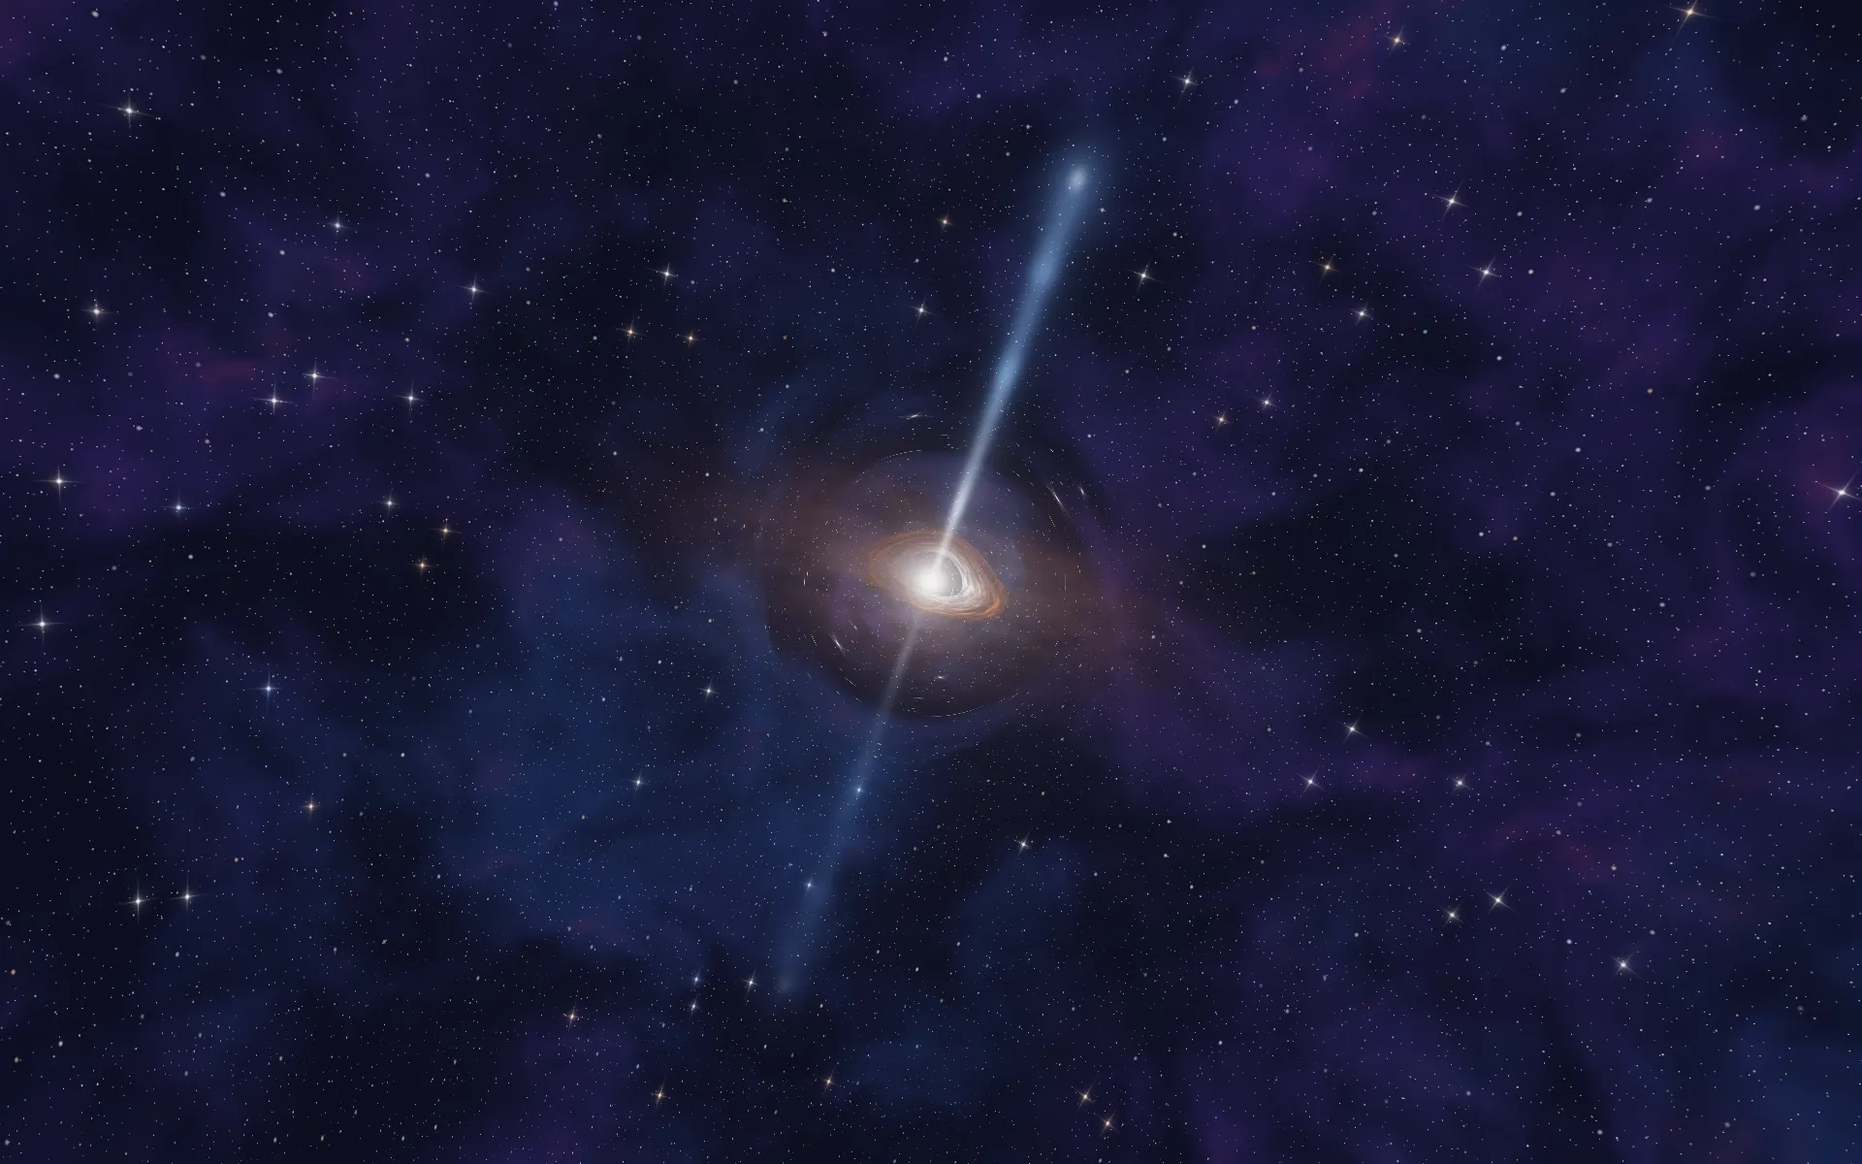
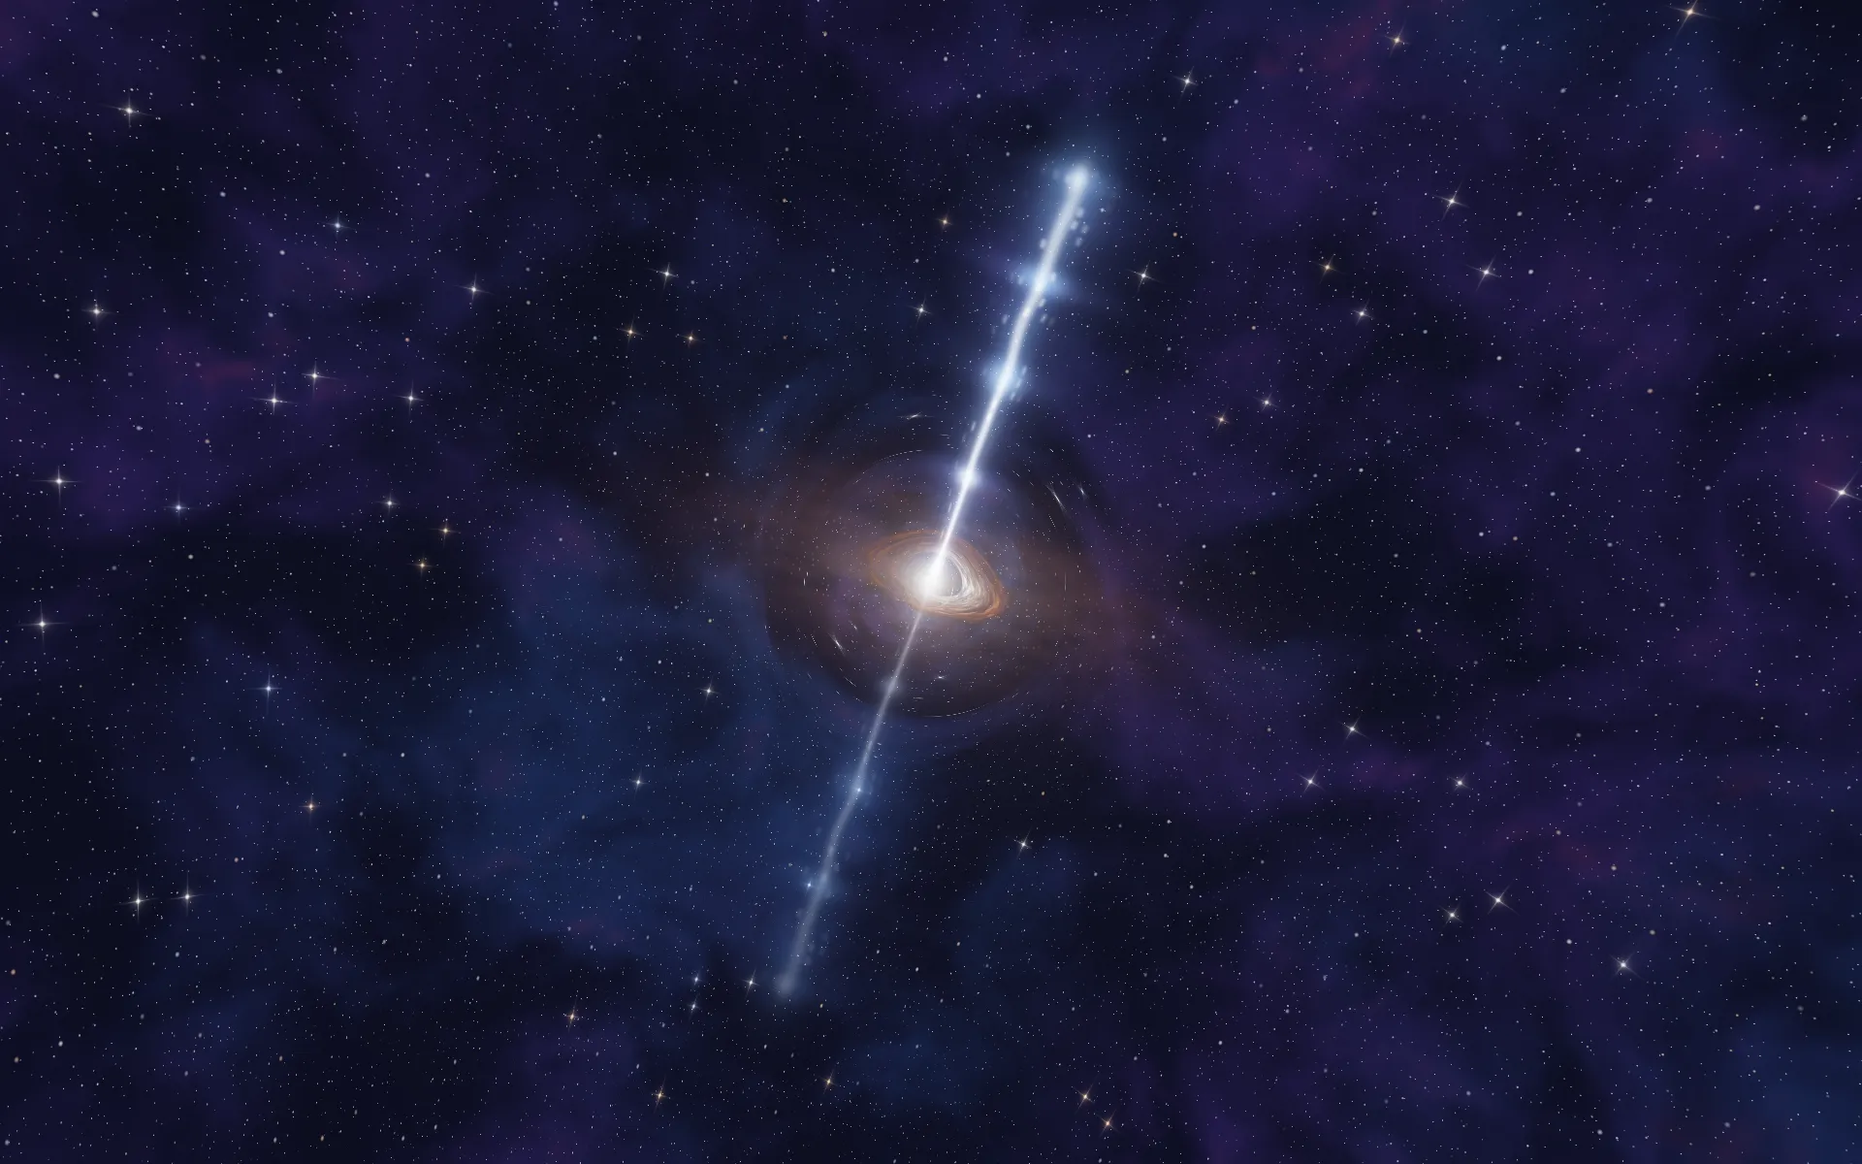
💄 style: Rebuild the nebula, power up the quasar jets and soften the flight sound
- Paint the nebula as luminous swirling gas lit from a glowing heart
- Give the quasar jets a hot spine, outward bursts, streaming knots and a shared pulse
- Replace the thumping whoosh with a soft breath of air and a faint shimmer
- Record decisions D-103 to D-105 and redraw posters

Changed region(s): [[0.5, 0.1233, 0.625, 0.4933], [0.4062, 0.6475, 0.4688, 0.8633], [0.4688, 0.555, 0.5, 0.6167]]

diff --git a/src/scene/scenes/nebula/shader.glsl.ts b/src/scene/scenes/nebula/shader.glsl.ts
@@ -124,67 +124,66 @@ void main(){
   vec2 q = css - uCentre;
   q.y = -q.y;
   vec2 p = q / uScale;
-  float t = uTime * 0.01;
+  float t = uTime * 0.012;
+  float rad = length(p);
 
-  // ---- the gas ----
-  vec2 warp = vec2(broad(p * 0.17 + vec2(3.1, t)), broad(p * 0.17 + vec2(-t, 7.7))) - 0.5;
-  float n = fbm(p * 0.24 + warp * 2.6 + vec2(t * 0.6, 0.0));
-  float m = broad(p * 0.11 + warp * 0.9 + 21.0); // the cloud's broad lie, for its outline
+  // ---- the gas: two levels of warp, so it billows and swirls ----
+  vec2 w1 = vec2(broad(p * 0.07 + vec2(1.3, t)), broad(p * 0.07 + vec2(-t, 4.1))) - 0.5;
+  vec2 w2 = vec2(broad(p * 0.15 + w1 * 2.2 + 7.0), broad(p * 0.15 + w1 * 2.2 + 13.0)) - 0.5;
+  vec2 r = p * 0.1 + w2 * 1.1 + w1 * 1.0;
+  float dens = fbm(r);
+  float detail = fbm(r * 2.6 + 5.0);
+  // the cloud's form: it fills the frame, thinning far from its glowing heart
+  float body = smoothstep(30.0, 5.0, rad + (dens - 0.5) * 16.0);
+  float gas = smoothstep(0.36, 0.86, dens * 0.78 + detail * 0.36) * body;
 
-  // the cloud's outline: most of it below and to the right of the cluster, thin above, so the
-  // cavity is a blister open toward the top
-  float body = length((p - BODY) / BODY_R) + (m - 0.5) * 0.6;
-  float cloud = 1.0 - smoothstep(0.45, 1.05, body + (n - 0.5) * 0.3);
+  // ---- light from the heart: the cloud's edges that face it glow (density falls toward it) ----
+  vec2 toHeart = -p / max(rad, 0.001);
+  float ahead = fbm(r + toHeart * 0.07);
+  float rim = clamp((dens - ahead) * 7.0, 0.0, 1.0) * gas;
+  float near = exp(-rad * 0.16);
 
-  // the cavity: thin glow inside, the cloud's lit wall at its edge, broken where the gas is thin
-  float wall = length(p) - (CAVITY + (n - 0.5) * 3.2 + warp.x * 2.0);
-  float inside = 1.0 - smoothstep(-0.4, 0.3, wall);
-  float rim = exp(-max(wall, 0.0) * 0.9) * smoothstep(-1.2, 0.0, wall) * cloud * smoothstep(0.32, 0.62, n);
+  // ---- colour: deep blue and violet far off, magenta between, orange and gold near the heart ----
+  float hue = broad(p * 0.045 + w1 * 0.9 + 30.0);
+  vec3 cool = mix(vec3(0.1, 0.2, 0.85), vec3(0.5, 0.18, 0.92), smoothstep(0.3, 0.7, hue));
+  vec3 warm = mix(vec3(0.98, 0.22, 0.55), vec3(1.0, 0.52, 0.16), smoothstep(0.35, 0.75, hue));
+  float heat = clamp(near * 1.9 + rim * 0.6 + (hue - 0.5) * 0.9, 0.0, 1.0);
+  vec3 tint = mix(cool, warm, smoothstep(0.12, 0.7, heat));
+  vec3 light = tint * gas * (0.32 + 1.1 * near) * (0.55 + 0.9 * detail);
+  light += mix(warm, vec3(1.0, 0.86, 0.62), 0.45) * rim * (0.35 + 1.8 * near);
+  // fine bright filaments threading the gas
+  float thread = pow(1.0 - abs(2.0 * fbm(r * 3.4 + w2 * 2.0 + 17.0) - 1.0), 9.0) * gas;
+  light += mix(tint, vec3(1.0), 0.35) * thread * (0.25 + 0.7 * near);
+  // the heart itself: hot white-gold, wrapped in a pink and blue haze
+  light += vec3(1.0, 0.84, 0.64) * exp(-rad * 0.5) * 0.65;
+  light += mix(vec3(0.45, 0.6, 1.0), vec3(1.0, 0.6, 0.85), 0.5) * exp(-rad * 0.2) * 0.2;
 
-  // a dark bank of dust along the bottom, and columns rising out of it into the cavity, each
-  // with a lumpy head; the warp bends them so no two are alike
-  vec2 r = p + warp * vec2(2.4, 1.2);
-  float sd = column(r, vec2(2.8, -12.5), vec2(0.4, -3.9), 1.8, 0.5);
-  sd = min(sd, column(r, vec2(0.9, -6.2), vec2(-0.5, -4.6), 0.55, 0.25)); // a knot leaning off its head
-  sd = min(sd, column(r, vec2(-5.6, -12.0), vec2(-3.2, -6.6), 1.4, 0.35));
-  sd = min(sd, column(r, vec2(7.0, -12.0), vec2(5.0, -7.6), 1.1, 0.3));
-  sd = min(sd, (r.y + 10.4) + (m - 0.5) * 3.0);
-  // eaten away at the edges: fine noise, stronger toward the heads
-  float bite = fbm(p * 0.95 + warp * 3.0 + 40.0) - 0.5;
-  sd += (n - 0.5) * 0.8 + bite * mix(0.6, 1.3, smoothstep(-9.0, -4.0, p.y));
-  float dust = 1.0 - smoothstep(-0.25, 0.35, sd);
-  // the columns' edges are lit where they face the cluster: brightest at the heads
-  float lit = exp(-abs(sd) * 4.5) * smoothstep(-10.5, -4.0, p.y) * (0.6 + n);
+  vec3 col = sky(css) * (1.0 - gas * 0.75) + light;
 
-  // dark lanes of dust threaded through the outer cloud
-  float ridge = 1.0 - abs(2.0 * broad(p * 0.3 + warp * 2.2 + 5.0) - 1.0);
-  float lane = pow(ridge, 7.0) * cloud * smoothstep(0.5, 3.0, wall);
+  // ---- dust: soft dark drifts in front, never near the heart, never thin lines ----
+  float dust = smoothstep(0.56, 0.82, broad(p * 0.12 + w2 * 2.6 + 50.0)) * smoothstep(3.0, 10.0, rad);
+  col *= 1.0 - dust * 0.72;
 
-  float gas = cloud * (0.14 + 0.9 * n * n) * mix(1.0, 0.6, smoothstep(0.0, 10.0, wall));
-  vec3 warm = mix(DEEP, ROSE, smoothstep(0.2, 0.75, n));
-  vec3 cool = mix(vec3(0.24, 0.16, 0.6), vec3(0.28, 0.52, 1.0), smoothstep(0.35, 0.85, n));
-  vec3 light = mix(cool, warm, smoothstep(-12.0, 4.0, p.x + (m - 0.5) * 16.0)) * gas * 1.25;
-  light += TEAL * inside * (0.04 + 0.24 * smoothstep(-CAVITY, 0.0, wall)) * (0.3 + 1.0 * n) * (0.3 + cloud);
-  light += mix(TEAL, ROSE, smoothstep(0.0, 1.5, wall)) * rim * 0.22;
-  light += mix(ROSE, GOLD, 0.35 + 0.5 * n) * rim * (0.2 + 0.5 * n);
-  light *= 1.0 - lane * 0.7;
-
-  vec3 col = sky(css) * (1.0 - cloud * 0.6) + light;
-  col = mix(col, SPACE * 0.55 + DEEP * 0.06, dust * 0.95);
-  col += mix(GOLD, ROSE, 0.25) * lit * 0.8;
-
-  // ---- the young cluster ----
+  // ---- the stars the cloud is making: the bright cluster at the heart, and others scattered in it ----
   for (int i = 0; i < STARS; i++) {
     vec4 s = CLUSTER[i];
-    float d = length(q - s.xy * uScale);
+    vec2 o = q - s.xy * uScale * 1.6;
+    float d = length(o);
     float size = s.z * 1.35;
     float core = smoothstep(size * 1.4, 0.0, d);
     float halo = size * size * 2.0 / (d * d + size * size * 2.5);
-    vec2 o = q - s.xy * uScale;
-    float spikes = s.z > 1.9 ? (exp(-abs(o.y) * 1.2) * exp(-abs(o.x) / (size * 9.0)) + exp(-abs(o.x) * 1.2) * exp(-abs(o.y) / (size * 9.0))) * 0.5 : 0.0;
+    float spikes = s.z > 1.9 ? (exp(-abs(o.y) * 1.2) * exp(-abs(o.x) / (size * 11.0)) + exp(-abs(o.x) * 1.2) * exp(-abs(o.y) / (size * 11.0))) * 0.55 : 0.0;
     col += mix(HOT, GOLD, s.w) * (core * 1.8 + halo * 0.6 + spikes);
   }
-  col += mix(TEAL, HOT, 0.4) * 0.08 * exp(-length(p) * 0.5);
+  vec2 cell = floor(p * 0.55);
+  vec2 f = fract(p * 0.55) - 0.5;
+  float h = hash21(cell + 71.0);
+  if (h > 0.9 && gas > 0.15) {
+    vec2 at = (vec2(hash21(cell + 3.0), hash21(cell + 9.0)) - 0.5) * 0.6;
+    float d = length(f - at) * uScale / 0.55;
+    float size = mix(0.8, 2.0, hash21(cell + 5.0));
+    col += mix(HOT, vec3(1.0, 0.7, 0.85), hash21(cell + 2.0)) * (smoothstep(size * 1.5, 0.0, d) * 1.3 + size * size / (d * d + size * size * 3.0) * 0.5);
+  }
 
   // a soft roll-off instead of a hard clip at white
   col = col / (1.0 + max(col - 0.8, 0.0) * 0.9);

diff --git a/src/lib/sound.ts b/src/lib/sound.ts
@@ -134,50 +134,63 @@ export function toggleSound(): void {
 }
 
 /**
- * A whoosh for a flight: filtered noise sweeping up (`in`, a dive), down (`out`, a pull-out), or
- * a softer swell (`glide`, between stops), with a low hum under it. The music dips while it plays.
+ * A breath of air for a flight (D-103): soft noise, filtered high and wide, swelling slowly and
+ * fading slowly, its colour drifting up for a dive (`in`), down for a pull-out (`out`), barely at
+ * all between stops (`glide`); over it a faint shimmer of two high, detuned tones. No low end and
+ * no sharp onset, so it never thumps. The music dips a little under it.
  */
 export function whoosh(kind: "in" | "out" | "glide", seconds = 1.4): void {
   if (!state.enabled || !state.playing || !ctx || !master || !noise || !musicGain) return;
   const now = ctx.currentTime;
-  const loud = kind === "glide" ? 0.12 : 0.22;
+  const end = now + seconds;
+  const peak = now + seconds * (kind === "out" ? 0.4 : 0.6);
+  const loud = kind === "glide" ? 0.05 : 0.08;
 
+  // the air: noise through a wide band-pass that drifts, then a gentle low cut so nothing booms
   const source = ctx.createBufferSource();
   source.buffer = noise;
   source.loop = true;
-  const filter = ctx.createBiquadFilter();
-  filter.type = "bandpass";
-  filter.Q.value = 1.4;
-  const [from, to] = kind === "out" ? [2600, 260] : kind === "in" ? [240, 2800] : [300, 900];
-  filter.frequency.setValueAtTime(from, now);
-  filter.frequency.exponentialRampToValueAtTime(to, now + seconds);
-  const gain = ctx.createGain();
-  gain.gain.setValueAtTime(0.0001, now);
-  gain.gain.exponentialRampToValueAtTime(loud, now + seconds * 0.55);
-  gain.gain.exponentialRampToValueAtTime(0.0001, now + seconds);
-  source.connect(filter).connect(gain).connect(master);
-
-  const hum = ctx.createOscillator();
-  hum.type = "sine";
-  hum.frequency.setValueAtTime(kind === "out" ? 110 : 55, now);
-  hum.frequency.exponentialRampToValueAtTime(kind === "out" ? 55 : 110, now + seconds);
-  const humGain = ctx.createGain();
-  humGain.gain.setValueAtTime(0.0001, now);
-  humGain.gain.exponentialRampToValueAtTime(loud * 0.6, now + seconds * 0.6);
-  humGain.gain.exponentialRampToValueAtTime(0.0001, now + seconds);
-  hum.connect(humGain).connect(master);
-
+  const band = ctx.createBiquadFilter();
+  band.type = "bandpass";
+  band.Q.value = 0.6;
+  const [from, to] = kind === "out" ? [2600, 900] : kind === "in" ? [900, 3200] : [1400, 1900];
+  band.frequency.setValueAtTime(from, now);
+  band.frequency.linearRampToValueAtTime(to, end);
+  const lowCut = ctx.createBiquadFilter();
+  lowCut.type = "highpass";
+  lowCut.frequency.value = 420;
+  const air = ctx.createGain();
+  air.gain.setValueAtTime(0, now);
+  air.gain.linearRampToValueAtTime(loud, peak);
+  air.gain.linearRampToValueAtTime(0, end);
+  source.connect(band).connect(lowCut).connect(air).connect(master);
   source.start(now);
-  source.stop(now + seconds + 0.05);
-  hum.start(now);
-  hum.stop(now + seconds + 0.05);
+  source.stop(end + 0.05);
 
-  // the music dips under the flight and comes back
+  // the shimmer: two quiet high tones, a fifth apart and slightly detuned, gliding with the flight
+  const base = kind === "out" ? 880 : 660;
+  const glideTo = kind === "out" ? 660 : kind === "in" ? 880 : 700;
+  for (const [ratio, detune] of [[1, -6], [1.5, 7]] as const) {
+    const tone = ctx.createOscillator();
+    tone.type = "sine";
+    tone.detune.value = detune;
+    tone.frequency.setValueAtTime(base * ratio, now);
+    tone.frequency.linearRampToValueAtTime(glideTo * ratio, end);
+    const level = ctx.createGain();
+    level.gain.setValueAtTime(0, now);
+    level.gain.linearRampToValueAtTime(loud * 0.12, peak);
+    level.gain.linearRampToValueAtTime(0, end);
+    tone.connect(level).connect(master);
+    tone.start(now);
+    tone.stop(end + 0.05);
+  }
+
+  // the music dips a little under the flight and comes back
   const g = musicGain.gain;
   g.cancelScheduledValues(now);
   g.setValueAtTime(g.value, now);
-  g.linearRampToValueAtTime(MUSIC_VOLUME * 0.55, now + 0.3);
-  g.linearRampToValueAtTime(MUSIC_VOLUME, now + seconds + 0.8);
+  g.linearRampToValueAtTime(MUSIC_VOLUME * 0.75, now + seconds * 0.4);
+  g.linearRampToValueAtTime(MUSIC_VOLUME, end + 0.8);
 }
 
 if (typeof window !== "undefined") {

diff --git a/src/scene/scenes/black-hole/shader.glsl.ts b/src/scene/scenes/black-hole/shader.glsl.ts
@@ -151,25 +151,49 @@ vec3 hostGalaxy(vec2 u){
   return mix(EMBER * 0.85, vec3(1.0, 0.88, 0.76), exp(-r * 3.0)) * body;
 }
 
-/* one jet; along and across are in horizon radii, bright is 1 for the near jet */
+/* how hard the engine is running: the jets and the core's glare breathe together (D-104) */
+float beat(){
+  return 0.82 + 0.13 * sin(uTime * 2.1) + 0.08 * sin(uTime * 5.3 + 1.0);
+}
+
+/*
+ * One jet; along and across are in horizon radii, bright is 1 for the near jet (D-104). A white-hot
+ * spine inside a wider beam inside a faint violet sheath, the whole column twisting as it goes;
+ * bursts of light race outward along it, grains of light stream out with them, and at its end it
+ * ploughs into the gas around the galaxy in a glowing lobe with a hot spot.
+ */
 vec3 jet(float along, float across, float bright){
   float L = uJetLength;
   if (along < 0.0) return vec3(0.0);
-  float width = 0.32 + along * 0.032;
-  float beam = exp(-(across * across) / (width * width));
-  float cocoon = exp(-(across * across) / (width * width * 9.0)) * 0.16;
-  float span = smoothstep(0.4, 2.5, along) * (1.0 - smoothstep(L * 0.8, L, along));
-  // knots that travel outward, slowly
-  float knots = 0.5 + 0.5 * pow(0.5 + 0.5 * sin(along * 0.42 - uTime * 0.3 + 1.3 * ringNoise(vec2(along * 0.2, 7.0), 400.0)), 3.0);
+  float t = uTime;
+  float width = 0.5 + along * 0.055;
+  // the column sways a little as it goes
+  float wobble = (ringNoise(vec2(along * 0.18 - t * 0.9, 3.0), 400.0) - 0.5) * width * 0.4;
+  float x = across - wobble;
+  float spine = exp(-(x * x) / (width * width * 0.08));
+  float beam = exp(-(x * x) / (width * width));
+  float sheath = exp(-(x * x) / (width * width * 9.0));
+  float span = smoothstep(0.3, 1.8, along) * (1.0 - smoothstep(L * 0.82, L, along));
+  // bursts racing outward
+  float burst = pow(0.5 + 0.5 * sin(along * 0.5 - t * 4.2 + 2.2 * ringNoise(vec2(along * 0.12, 9.0), 400.0)), 5.0);
+  // grains of light streaming out with them
+  // (streaks along the jet, each in its own narrow lane: never bars across it)
+  float lanes = x / width * 2.2;
+  float lane = floor(lanes + 0.5);
+  float g = along * 0.6 - t * 4.5;
+  float grain = step(0.8, hash21(vec2(floor(g), lane + 11.0))) * smoothstep(0.5, 0.1, abs(fract(g) - 0.5)) * exp(-pow(lanes - lane, 2.0) * 14.0) * beam;
   float fade = mix(1.0, 0.5, along / L);
-  vec3 colour = mix(WHITE, AZURE, smoothstep(0.0, L * 0.55, along));
-  vec3 light = colour * (beam * knots + cocoon) * span * fade * 1.15;
-  // where the jet ploughs into intergalactic gas it spreads into a lobe, with a hot spot
-  vec2 lobe = vec2(along - L * 0.92, across) / vec2(5.2, 3.6);
+  vec3 colour = mix(WHITE, AZURE, smoothstep(0.0, L * 0.6, along));
+  vec3 light = WHITE * spine * 1.5 + colour * beam * (0.55 + 1.5 * burst) + mix(AZURE, VIOLET, 0.4) * sheath * (0.35 + 0.25 * burst);
+  light = light * span * fade * beat() + WHITE * grain * span * fade;
+  // the base flares where the jet leaves the glare
+  light += WHITE * exp(-along * 0.9) * exp(-(x * x) / (width * width * 2.0)) * 0.6 * beat();
+  // where the jet ploughs into the gas around the galaxy it spreads into a lobe, with a hot spot
+  vec2 lobe = vec2(along - L * 0.92, across) / vec2(5.6, 4.0);
   float spread = exp(-dot(lobe, lobe));
   float hot = exp(-dot(lobe * 4.0, lobe * 4.0));
-  light += AZURE * spread * 0.32 + WHITE * hot * 0.5;
-  return light * bright;
+  light += (AZURE * spread * 0.4 + WHITE * hot * 0.8) * beat();
+  return light * bright * 1.2;
 }
 #endif
 
@@ -230,7 +254,7 @@ void main(){
   light += (1.0 - hidden) * jet(-along, acrossJet, 0.2);     // away from us, partly behind the disc
   // the core outshines everything around it
   float rc = length(u);
-  light += WHITE * (2.2 / (1.0 + rc * rc * 0.35) + 0.08 / (1.0 + rc * 0.1));
+  light += WHITE * (2.2 / (1.0 + rc * rc * 0.35) + 0.08 / (1.0 + rc * 0.1)) * (0.75 + 0.3 * beat());
   light = 1.0 - exp(-light * 1.15); // keep the glare from clipping flat
 #endif
 

diff --git a/docs/DECISIONS.md b/docs/DECISIONS.md
@@ -182,3 +182,11 @@ The owner clicked through S1: "Much better", then asked for the changes below, w
 | D-100 | **Sound.** The owner's own track "Magical Space" (from their portfolio repo, fetched with their GitHub login) loops at 0.32 volume under every scene, Vorbis (`public/sounds/magical-space.ogg`) with an AAC copy for Safari (`.m4a`, 96 kbps, made once with the ffmpeg binary of the `imageio-ffmpeg` Python package through `uv`; not a project dependency). Every flight has a whoosh made with Web Audio (filtered noise sweeping up for a dive, down for a pull-out, a softer swell between stops, a low hum under it) and the music dips under it. On by default: it fades in after the first click, tap or key, since browsers allow nothing sooner. A Sound button in the header turns it off and on (`aria-pressed`), remembered in `localStorage`; nothing plays while the tab is hidden. `src/lib/sound.ts`, no dependency. | Owner asked for sound with that track. Synthesised whooshes need no more files. | Off by default (the owner asked for sound); the portfolio's SFX files (unheard here, and the whooshes fit the flights). |
 | D-101 | **The deep sky behind every scene** (`src/scene/shaders/sky.glsl.ts`): clouds of violet, azure and rose gas, soft drifts of dust (patches, not ridged lines, which read as ink), three layers of stars with a few bright ones carrying light spikes, and for the black hole the warm crowded heart of its galaxy right behind it, lensed into a glowing ring. The black hole and the quasar sample it with each ray's bent direction; the atlas draws it on a full-screen triangle first (16 draw calls at most now), full at the galaxy and thinning toward the web; the nebula lays it flat behind a wider cloud (cool violet and azure away from its cluster, warm rose facing it) with spiked cluster stars. **The clouds are baked once per scene into a 512-pixel cube texture** (`src/scene/sky.ts`); only the stars are live. The quasar's sky blends from the bent to the straight direction at the edge of its marched zone, so it shows no seam. | "The black hole is at the centre of a galaxy and yet its surroundings look empty"; "the stuff feels kinda empty". Drawn live, the clouds made every frame many octaves of noise per pixel: the software-WebGL tests slowed to a crawl, and a phone would have too. | Painting backgrounds (our own illustrations only, and they would not be lensed); planets and ships from the references. |
 | D-102 | **Zoom and drag in places, and saying so.** Places get Closer and Further: Closer moves in (black hole 2.6x, nebula 2.2x, the quasar 14x, into its glare and disc: "zoom into the quasar"); Further first backs out to the framing, then leaves. A drag turns the camera around the black hole and the quasar (yaw to azimuth, pitch to elevation, so you can see under the disc and swing the jets) and pans the nebula (the sky moves at 0.3, for depth). The wheel and a pinch zoom; pulled on past the framing, the wheel leaves. One gesture hook for the atlas and the places (`useGestures`). Every scene shows a grab cursor; until the first drag a quiet line with swaying arrows says "Drag to look around · scroll to zoom" ("pinch to zoom" on touch), then fades for good (`localStorage`). The header no longer catches pointer events except on its two controls, so its middle can be dragged through. | "Zoom into the quasar"; "make it obvious when I can drag and pan stuff". | A permanent hint; a tutorial overlay; drag-to-pan on the black hole (turning around it shows the lensing change, which is the spectacle). |
+
+## Gentler, more beautiful, more powerful (S1c, 2026-11-21)
+
+| ID | Decision | Reason | Alternatives rejected |
+|---|---|---|---|
+| D-103 | **The flight sound is a breath of air, not a whoosh with a hum.** Noise through a wide band-pass (Q 0.6) that drifts up for a dive, down for a pull-out, barely between stops, with a low cut at 420 Hz; a linear swell to its peak and a linear fade; over it a faint shimmer of two high detuned sines a fifth apart. Peak 0.08 (0.05 between stops); the music dips to 75%, not 55%. | Owner: "the zoom in and out sfx feels like a thump". The 55 to 110 Hz hum and the exponential onset were the thump. | Removing the flight sound. |
+| D-104 | **Quasar jets that show power.** A white-hot spine in a wider beam (0.5 horizon radii, widening) in a violet-azure sheath; bursts race outward (4.2 rad/s), knots of light stream out in narrow lanes along the jet (never bars across it), the base flares, and the jets, lobes and the core's glare breathe together (`beat()`). The column sways only slightly: a strong wobble read as lightning. | Owner: "make the beams more pulsating and powerful; the black hole is shooting something". | Lightning-like forking jets (tried: read as an electric bolt). |
+| D-105 | **A new nebula.** The dark columns, the dust bank and the blister cavity are gone. Luminous gas fills the frame, twice-warped fractal noise swirling around a glowing heart; deep blue and violet far from it, magenta between, orange and gold close in; the cloud's edges glow where they face the heart (density compared a step toward it); fine bright threads; soft dust drifts in front; the cluster spread wider, and more young stars scattered where the gas is thick. | Owner: "the nebula section is kinda ugly since I have seen really beautiful nebula images"; the reference image is a full-frame, luminous, multicoloured cloud. | Tuning the old one (its dark bank and columns were the problem). |
